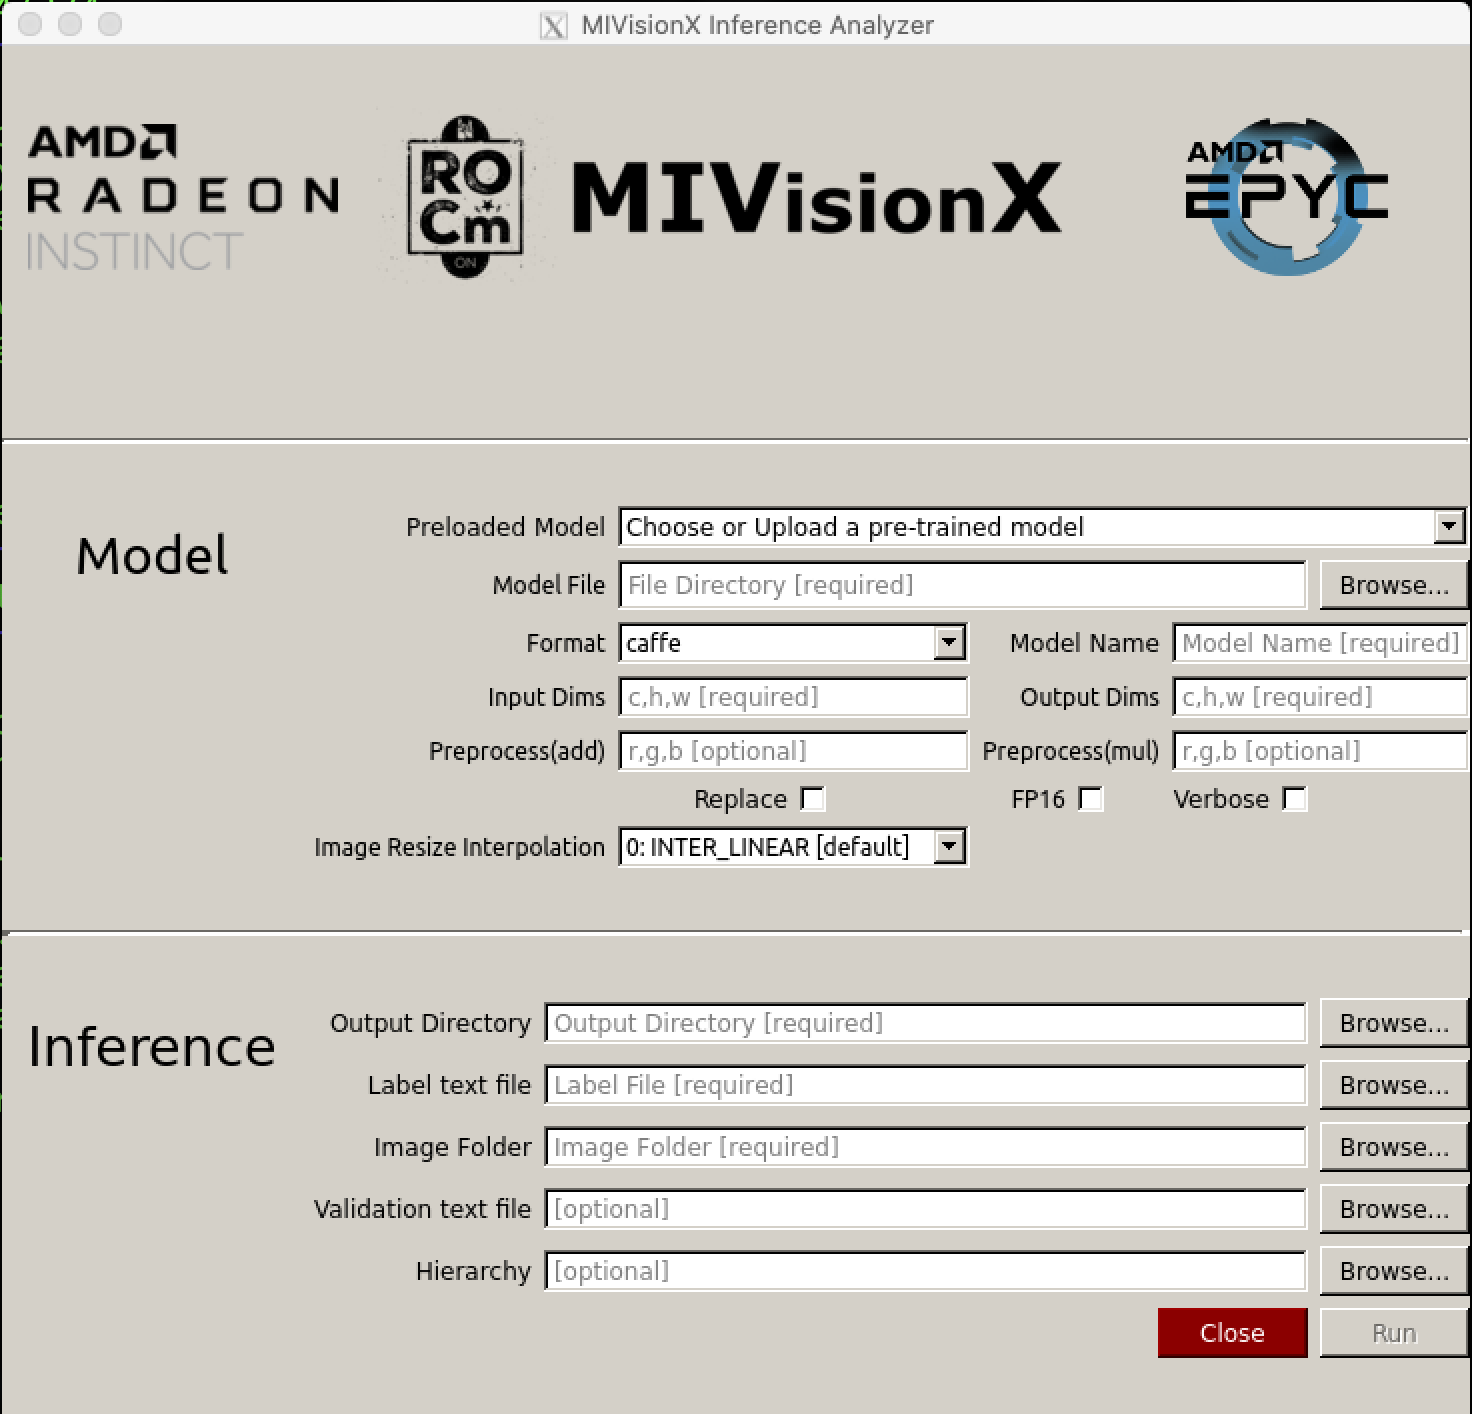
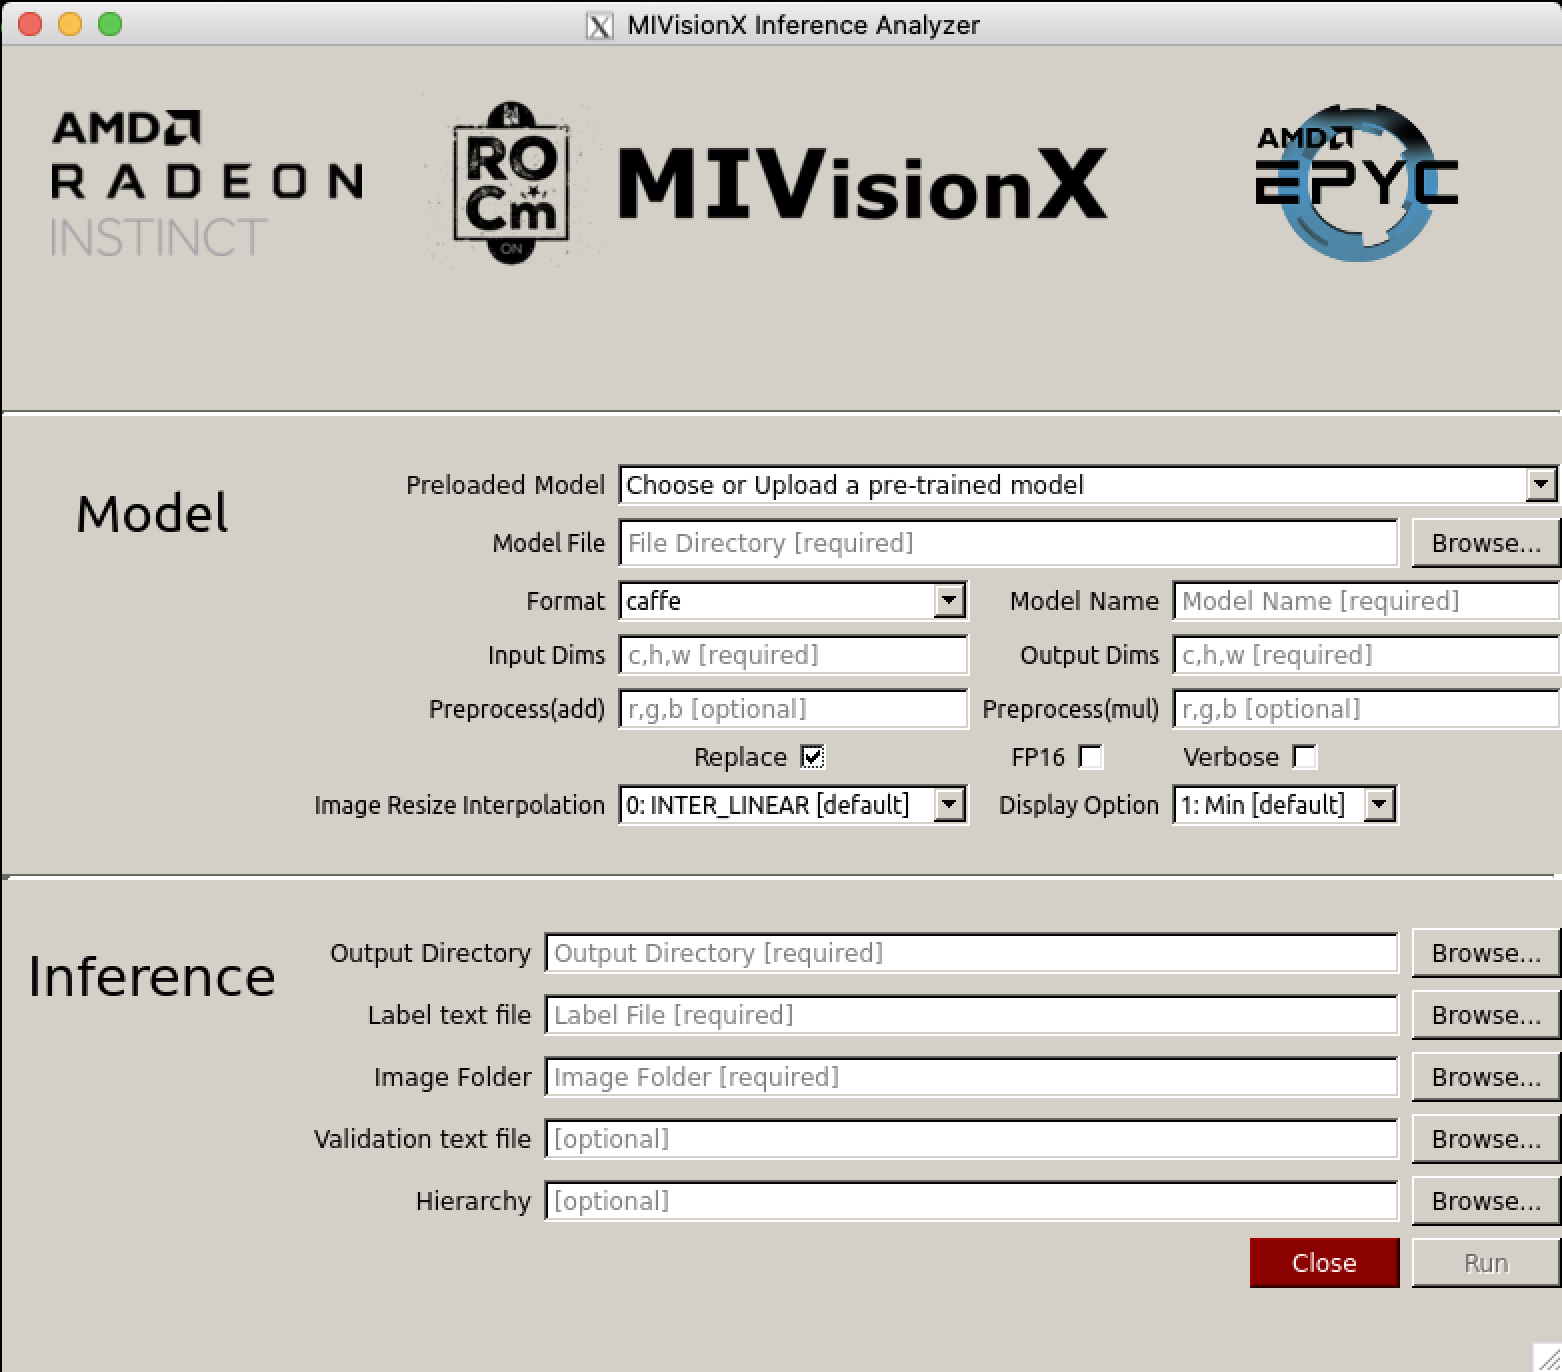
Display Option Set

diff --git a/inference_control.py b/inference_control.py
@@ -20,7 +20,7 @@ class inference_control(QtGui.QMainWindow):
         self.replace = 'no'
         self.verbose = 'no'
         self.resize_inter = 0
-        self.display_option = 2
+        self.display_option = 1
         self.runningState = False
         self.initUI()
 
@@ -57,6 +57,7 @@ class inference_control(QtGui.QMainWindow):
         self.hier_lineEdit.setPlaceholderText("[optional]")
         self.close_pushButton.setStyleSheet("color: white; background-color: darkRed")
         self.readSetupFile()
+        self.display_comboBox.setCurrentIndex(1)
         self.show()
 
     def browseFile(self):
